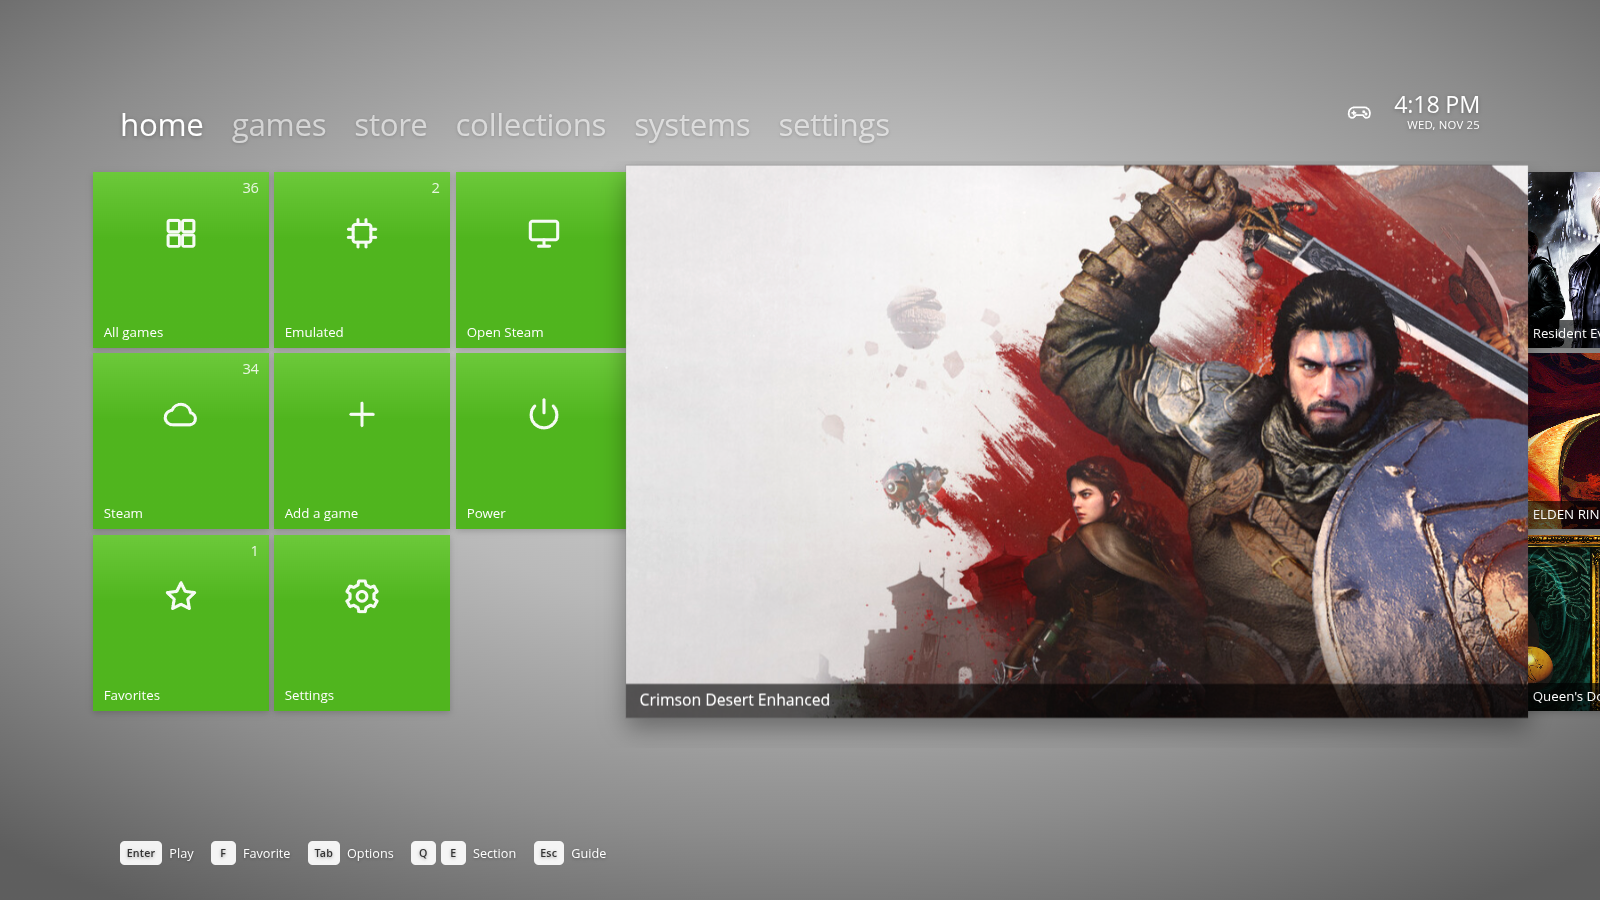
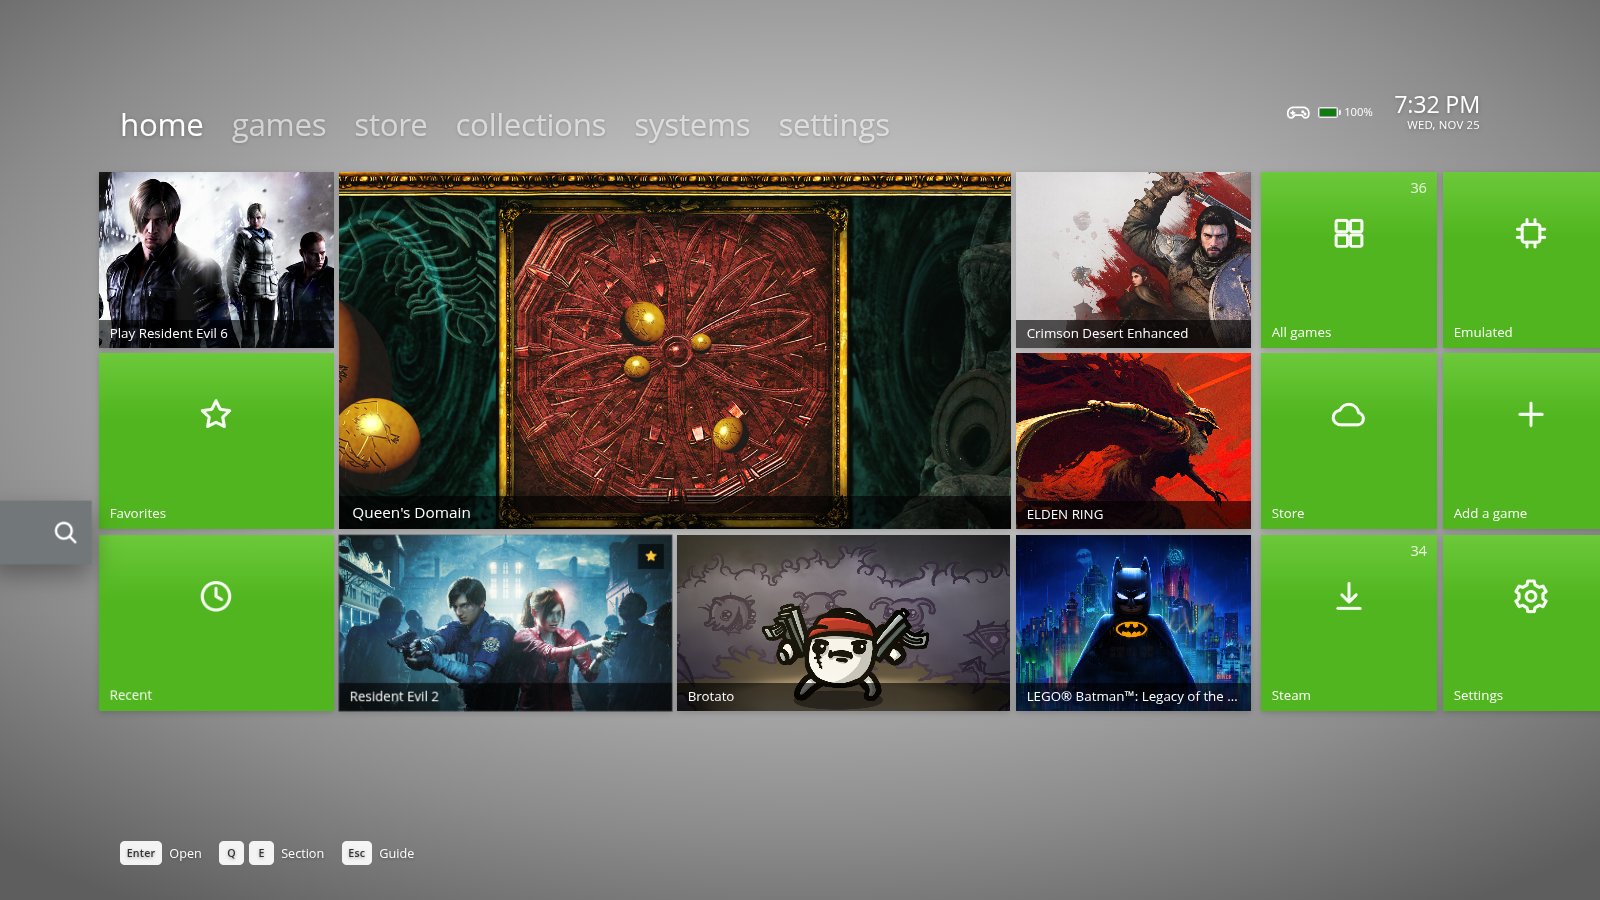
360 theme: lay out home like the console's dashboard
A search tab peeking in from the left, a column with the game to play
over Favorites and Recent, a large feature with two pictures under it,
a column of three pictures, then the green tiles.

diff --git a/src/renderer/js/views/home.js b/src/renderer/js/views/home.js
@@ -15,7 +15,58 @@ export function createHome() {
     h('h3', { class: 'block__title' }, title),
     h('div', { class: 'block__tiles' }, tiles));
 
+  /**
+   * The 360 home, laid out like the console's: a search tab peeking in from the left; a
+   * column with the game to play (a picture) over two green tiles; a big feature in the
+   * middle with two pictures under it; a column of three pictures; then the green tiles.
+   */
+  function renderMetro(games) {
+    const recent = sortGames(games, 'recent');
+    const favorites = games.filter((g) => g.favorite);
+    let i = 0;
+    const at = (el, area) => { el.style.gridArea = area; return el; };
+    const pic = (g, area, caption) => {
+      if (!g) return null;
+      const t = at(gameTile(g, 'wide', i++), area);
+      if (caption) { const title = t.querySelector('.tile__title'); if (title) title.textContent = caption; }
+      return t;
+    };
+    const used = new Set();
+    const take = (list) => { const g = list.find((x) => !used.has(x.id)); if (g) used.add(g.id); return g; };
+    const play = take(recent);
+    const feature = take(recent);
+    const under = [take(recent), take(recent)];
+    const side = [take(favorites) || take(recent), take(favorites) || take(recent), take(recent)];
+
+    const grid = h('div', { class: 'metro' },
+      pic(play, 'a1', play ? `Play ${play.name}` : null)
+        || at(actionTile({ key: 'm:browse', label: 'Find a game', iconName: 'grid', tone: 'accent', index: i++, onSelect: () => app.go('games', { filter: 'all', enter: true }) }), 'a1'),
+      at(actionTile({ key: 'm:pins', label: 'Favorites', iconName: 'star', tone: 'accent', index: i++, onSelect: () => app.go('games', { filter: 'favorites', enter: true }) }), 'a2'),
+      at(actionTile({ key: 'm:recent', label: 'Recent', iconName: 'clock', tone: 'accent', index: i++, onSelect: () => app.go('games', { filter: 'recent', enter: true }) }), 'a3'),
+      feature ? at(gameTile(feature, 'hero', i++), 'hero')
+        : at(actionTile({ key: 'm:store', size: 'hero', label: 'Steam store', iconName: 'cloud', tone: 'accent', index: i++, onSelect: () => app.go('store', { enter: true }) }), 'hero'),
+      pic(under[0], 'b3'), pic(under[1], 'c3'),
+      pic(side[0], 'd1'), pic(side[1], 'd2'), pic(side[2], 'd3'));
+    const search = actionTile({ key: 'm:search', label: '', iconName: 'search', tone: 'slate', index: i++, onSelect: () => app.search() });
+    search.classList.add('tile--peek');
+
+    const quick = h('div', { class: 'metro metro--quick' },
+      actionTile({ key: 'q:all', label: 'All games', count: games.length, iconName: 'grid', tone: 'accent', index: i++, onSelect: () => app.go('games', { filter: 'all', enter: true }) }),
+      actionTile({ key: 'q:store', label: 'Store', iconName: 'cloud', tone: 'accent', index: i++, onSelect: () => app.go('store', { enter: true }) }),
+      actionTile({ key: 'q:steam', label: 'Steam', count: games.filter((g) => g.source === 'steam').length, iconName: 'download', tone: 'accent', index: i++, onSelect: () => app.go('games', { filter: 'steam', enter: true }) }),
+      actionTile({ key: 'q:emu', label: 'Emulated', count: games.filter((g) => g.source === 'emulator').length, iconName: 'chip', tone: 'accent', index: i++, onSelect: () => app.go('games', { filter: 'emulated', enter: true }) }),
+      actionTile({ key: 'q:add', label: 'Add a game', iconName: 'plus', tone: 'accent', index: i++, onSelect: async () => { const id = await editCustomGame(); if (id) app.go('games', { filter: 'custom', enter: true, focusKey: `g:${id}` }); } }),
+      actionTile({ key: 'q:settings', label: 'Settings', iconName: 'gear', tone: 'accent', index: i++, onSelect: () => app.go('settings', { enter: true }) }),
+      actionTile({ key: 'q:power', label: 'Power', iconName: 'power', tone: 'accent', index: i++, onSelect: () => app.guide({ select: 'power:suspend' }) }));
+
+    scroller.replaceChildren(
+      h('div', { class: 'block block--peek' }, search),
+      h('div', { class: 'block block--metro' }, grid),
+      h('div', { class: 'block block--metro' }, quick));
+  }
+
   function render() {
+    if (document.body.dataset.theme === 'x360') { renderMetro(visibleGames().filter((g) => g.installed)); return; }
     const all = visibleGames();
     // The dashboard is for what can be played right now; uninstalled games live under Games.
     const games = all.filter((g) => g.installed);

diff --git a/src/renderer/styles/themes.css b/src/renderer/styles/themes.css
@@ -843,3 +843,22 @@ body[data-theme='x360'][data-input='pad']:has(.layer--guide:not(.is-closing)) .g
 [data-theme='x360'] .layer--guide .panel__list { flex: 1 1 auto; }
 /* Every theme: the Guide's frame is see-through; only the blades and the list are solid. */
 [data-theme] .layer--guide .panel { background: transparent; box-shadow: none; backdrop-filter: none; }
+
+/* 360 home: the console's layout (see renderMetro in views/home.js). */
+[data-theme='x360'] .metro {
+  display: grid; gap: 0.4rem;
+  grid-template-columns: 17.6rem 25rem 25rem 17.6rem;
+  grid-template-rows: repeat(3, 13.2rem);
+  grid-template-areas: 'a1 hero hero d1' 'a2 hero hero d2' 'a3 b3 c3 d3';
+}
+[data-theme='x360'] .metro--quick { grid-template-columns: none; grid-template-areas: none; grid-auto-flow: column; grid-auto-columns: 13.2rem; }
+[data-theme='x360'] .metro > .tile { width: auto; height: auto; min-width: 0; }
+[data-theme='x360'] .metro .tile--hero .tile__caption { padding: 0.55rem 1rem 0.6rem; }
+[data-theme='x360'] .block--metro + .block--metro { margin-left: 0.4rem; }
+/* The search tab peeking in from the left edge, as on the console. */
+[data-theme='x360'] .block--peek { align-self: center; margin-left: calc(-1 * var(--gutter) - 0.4rem); margin-right: 0.4rem; }
+[data-theme='x360'] .tile--peek { width: calc(var(--gutter) - 2rem); height: 4.4rem; margin-top: 13.6rem; }
+[data-theme='x360'] .tile--peek .tile__body { background: #6a6e70; }
+[data-theme='x360'] .tile--peek .tile__icon { top: 50%; left: auto; right: 0.9rem; transform: translateY(-50%); width: 2rem; height: 2rem; }
+[data-theme='x360'] .tile--peek.is-focused .tile__body { transform: scale(1.08); }
+[data-theme='x360'] .view--home .block--quick { order: 0; }
